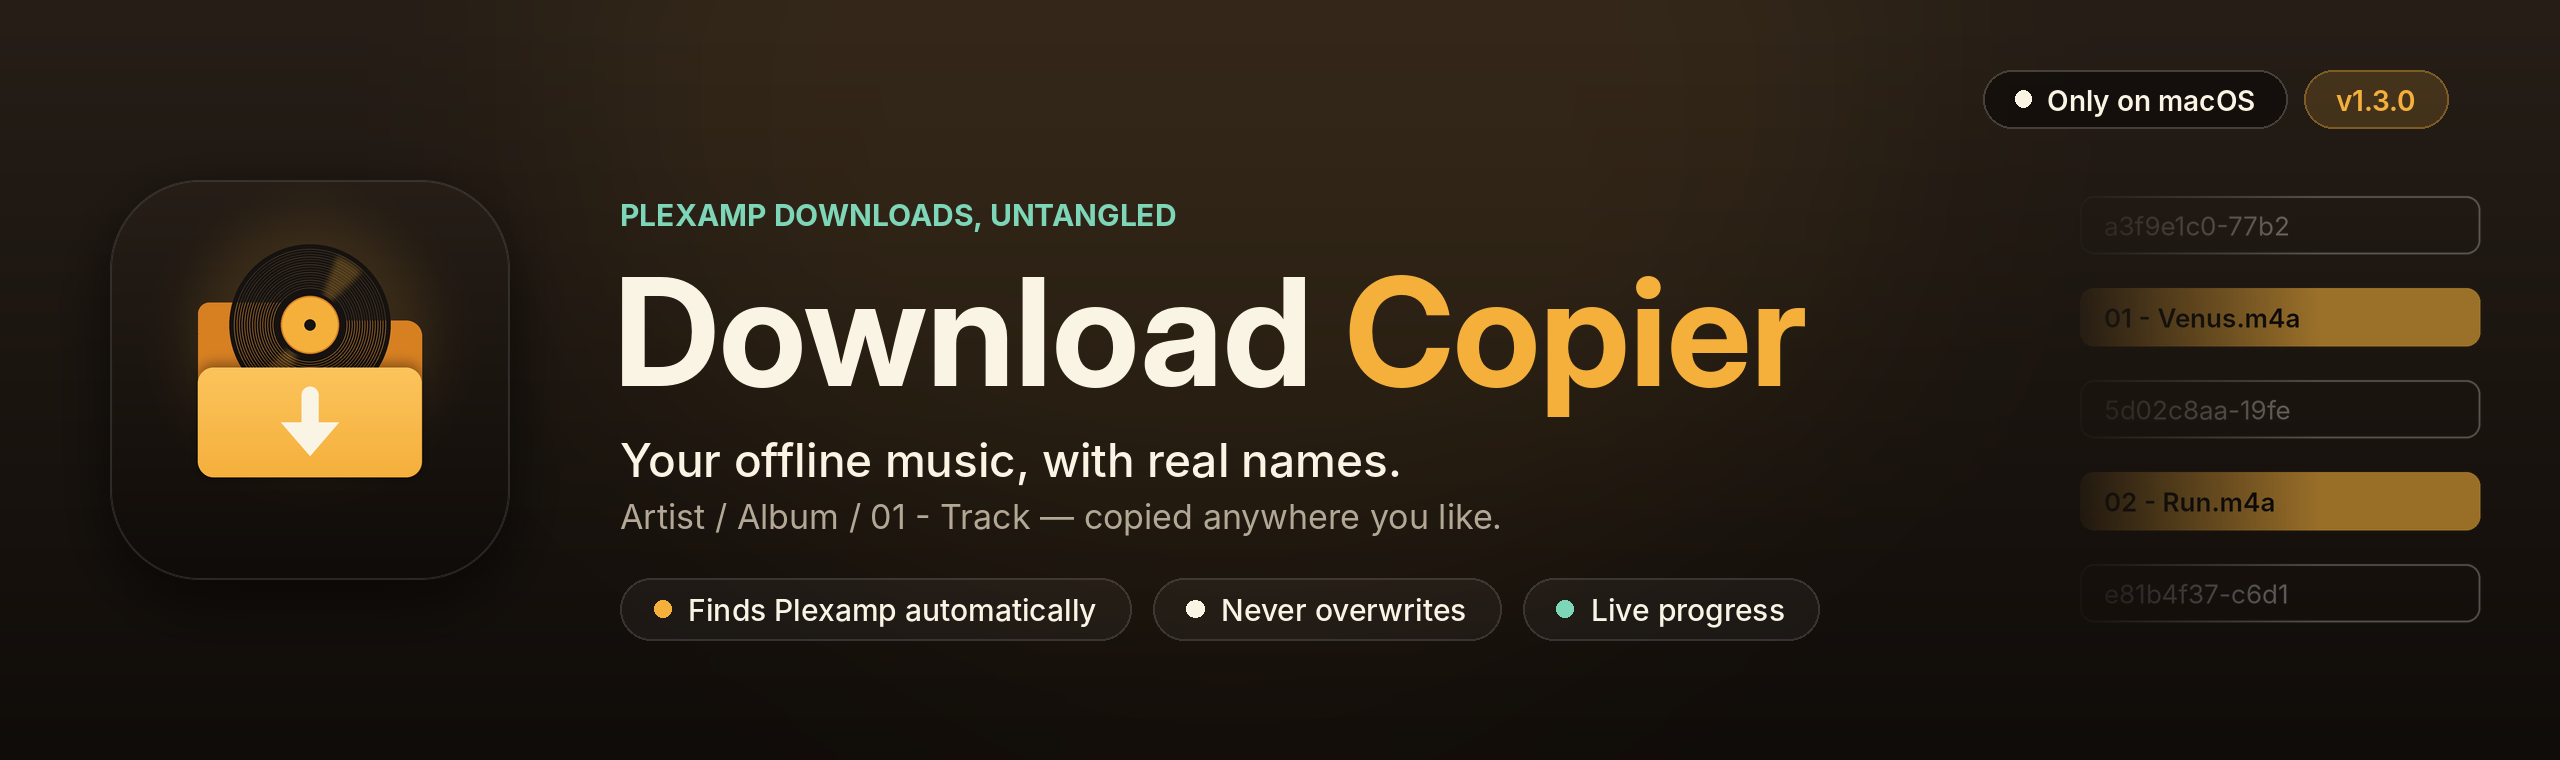
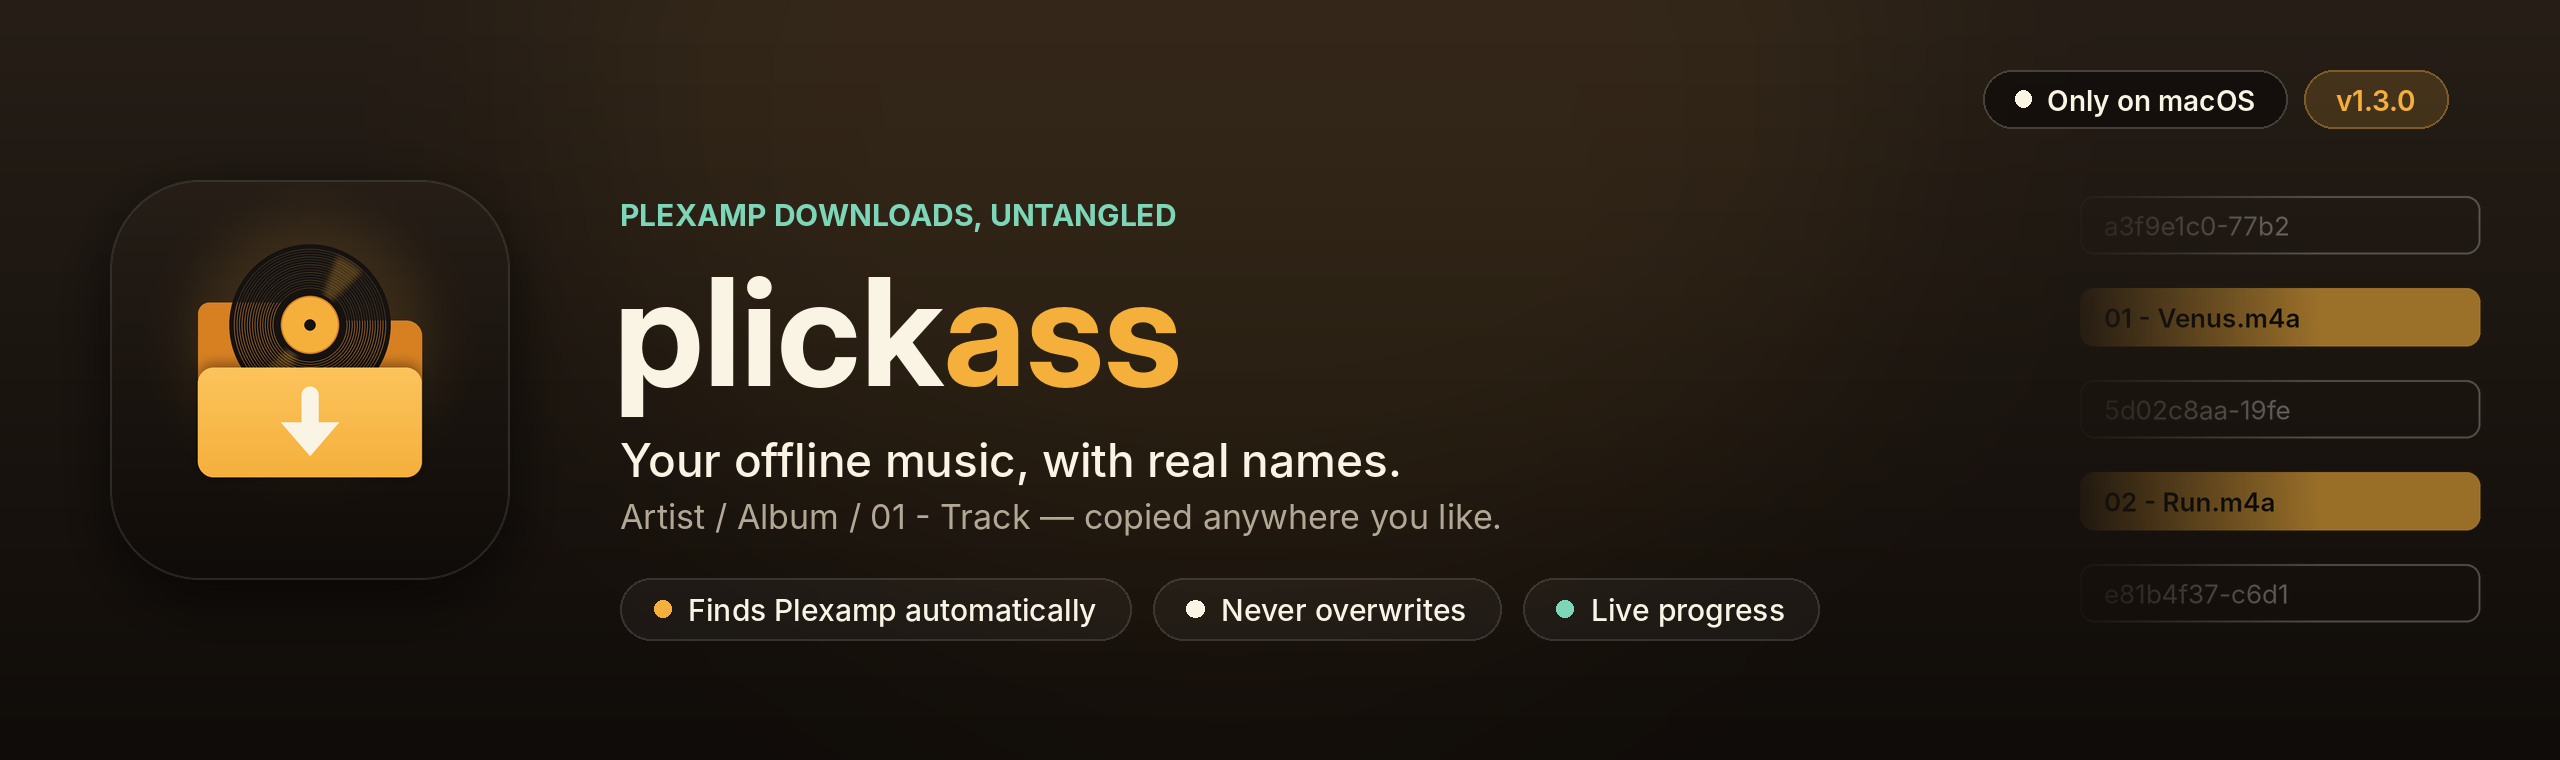
Rename the app to plickass
Plexamp Download Copier's Mac app is now plickass: window, menus,
About, brand bar, app bundle (plickass.app, com.dustalexw.plickass),
log file, README and header. Daniel Rahn's original script keeps its
name and is credited in the README and About window.

Claude-Session: https://claude.ai/code/session_01GjxRronC61BuUcQ3WpvyPP

Changed region(s): [[0.2188, 0.3632, 0.7188, 0.5447], [0.2188, 0.5145, 0.25, 0.5447]]

diff --git a/app.js b/app.js
@@ -1,4 +1,4 @@
-// Plexamp Download Copier — native Cocoa window (JavaScript for Automation).
+// plickass — native Cocoa window (JavaScript for Automation).
 // Run by the app's launcher: osascript -l JavaScript app.js
 // Follows the dustalexw app layout (Banana Split Redux, Data Curator, Cover Flow): an integrated brand bar
 // with an accent rule, uppercase section kickers on rounded cards, one solid accent button, a mint
@@ -11,8 +11,8 @@ function envVar(k) { const v = env.objectForKey(k); return v.isNil() ? '' : v.js
 const RES = envVar('PDC_RES');
 const PY = envVar('PDC_PYTHON') || '/usr/bin/python3';
 const VERSION = envVar('PDC_VERSION') || '1.3.0';
-const NAME = 'Plexamp Download Copier';
-const REPO = 'https://github.com/danrahn/Plexamp-Download-Copier';
+const NAME = 'plickass';
+const REPO = 'https://github.com/dustalexw/plickass';
 const HOME = $.NSHomeDirectory().js;
 const fm = $.NSFileManager.defaultManager;
 try { $.NSProcessInfo.processInfo.processName = NAME; } catch (e) {}
@@ -56,10 +56,10 @@ function centred(m) {
   m.addAttributeValueRange($.NSParagraphStyleAttributeName, p, $.NSMakeRange(0, m.length));
   return m;
 }
-function brandName(size) { // "Plexamp Download" in cream, "Copier" in amber, as in the README header
+function brandName(size) { // "plick" in cream, "ass" in amber, as in the README header
   const f = rounded(size, 0.62);
-  const t = astr('Plexamp Download ', C.cream, f);
-  t.appendAttributedString(astr('Copier', C.amber, f));
+  const t = astr('plick', C.cream, f);
+  t.appendAttributedString(astr('ass', C.amber, f));
   return t;
 }
 
@@ -67,7 +67,7 @@ function brandName(size) { // "Plexamp Download" in cream, "Copier" in amber, as
 function isDir(p) { const d = Ref(); return !!p && fm.fileExistsAtPathIsDirectory(p, d) && d[0]; }
 const DEFAULT_SRC = HOME + '/Library/Application Support/Plexamp/Offline';
 const DEFAULT_DST = HOME + '/Music/Plexamp Copies';
-const LOG = $.NSTemporaryDirectory().js + 'plexamp-copier-' + $.NSProcessInfo.processInfo.processIdentifier + '.log';
+const LOG = $.NSTemporaryDirectory().js + 'plickass-' + $.NSProcessInfo.processInfo.processIdentifier + '.log';
 const icon = $.NSImage.alloc.initWithContentsOfFile(RES + '/AppIcon.icns');
 
 function alert(title, msg, buttons) {
@@ -525,7 +525,7 @@ function about() {
   plate('Source on GitHub', 'openSource:', 28 + LB + 8, LY, LB, 30, 0, 'secondary');
   plate('Report an issue', 'openIssues:', 28 + (LB + 8) * 2, LY, LB, 30, 0, 'secondary');
 
-  wrapped('Original script by Daniel Rahn  ·  Native window by JavaScript for Automation  ·  Copying by Python 3',
+  wrapped('Based on Plexamp Download Copier by Daniel Rahn  ·  Native window by JavaScript for Automation  ·  Copying by Python 3',
           40, LY + 46, AW - 80, 32, 0, C.dim, font(11), true);
   const close = plate('Close', 'closeAbout:', AW - 28 - 84, AH - 28 - 30, 84, 30, 0, 'secondary');
   close.button.keyEquivalent = '\u001b';

diff --git a/scripts/make_brand.py b/scripts/make_brand.py
@@ -1,5 +1,5 @@
 #!/usr/bin/env python3
-"""Generates Plexamp Download Copier's brand assets: the app icon, the README header and the README badges.
+"""Generates plickass's brand assets: the app icon, the README header and the README badges.
 
     python3 scripts/make_brand.py [--version 1.2.0]
 
@@ -188,8 +188,8 @@ def header(path, version, W=2560, H=760):
     x = 620
     d.text((x, 196), "PLEXAMP DOWNLOADS, UNTANGLED", font=font("Inter-Bold.otf", 30), fill=MINT)
     title = font("InterDisplay-Bold.otf", 150)
-    d.text((x - 6, 240), "Download ", font=title, fill=CREAM)
-    d.text((x - 6 + d.textlength("Download ", font=title), 240), "Copier", font=title, fill=AMBER)
+    d.text((x - 6, 240), "plick", font=title, fill=CREAM)
+    d.text((x - 6 + d.textlength("plick", font=title), 240), "ass", font=title, fill=AMBER)
     d.text((x, 432), "Your offline music, with real names.", font=font("Inter-Medium.otf", 46), fill=CREAM)
     d.text((x, 496), "Artist / Album / 01 - Track — copied anywhere you like.", font=font("Inter-Regular.otf", 34), fill=TAUPE)
     layer = Image.new("RGBA", (W, H), (0, 0, 0, 0))

diff --git a/gui.py b/gui.py
@@ -1,4 +1,4 @@
-"""Simple GUI for Plexamp Download Copier. Run: python3 gui.py"""
+"""Simple cross-platform Tk GUI for plickass. Run: python3 gui.py"""
 import os
 import queue
 import sys
@@ -45,7 +45,7 @@ class App:
         self.root = root
         self.q = queue.Queue()
         self.running = False
-        root.title('Plexamp Download Copier')
+        root.title('plickass')
         # Explicit colors: Apple's bundled Tk 8.5 otherwise draws labels/fields invisibly on recent macOS.
         bg, fg, field = '#f4f4f4', '#1d1d1f', '#ffffff'
         root.configure(bg=bg)

diff --git a/README.md b/README.md
@@ -1,4 +1,4 @@
-<p align="center"><img src="docs/readme-header.png" alt="Plexamp Download Copier — Only on macOS; your offline music, with real names" width="100%"></p>
+<p align="center"><img src="docs/readme-header.png" alt="plickass — Only on macOS; your offline music, with real names" width="100%"></p>
 
 <p align="center">
   <a href="#mac-app-gui"><img src="docs/badge-release.svg" alt="Release v1.3.0"></a>
@@ -6,9 +6,9 @@
   <a href="#mac-app-gui"><img src="docs/badge-platform.svg" alt="Platform: macOS 11 or later, Apple silicon and Intel"></a>
 </p>
 
-# Plexamp Download Copier
+# plickass
 
-Plexamp's offline downloads are stored as files named only by random IDs. **Plexamp Download Copier**
+Plexamp's offline downloads are stored as files named only by random IDs. **plickass**
 turns them back into real music files, copied anywhere you like as `Artist / Album / 01 - Track`.
 
 ```
@@ -20,12 +20,12 @@ Find your Plexamp downloads → Choose a destination → Copy → Show in Finder
 * **Read-only on the Plexamp side.** Your downloads are never moved or changed.
 * **Live progress** with every copied track listed as it happens.
 
-Choose **Plexamp Download Copier → About Plexamp Download Copier** for the version, a feature overview
+Choose **plickass → About plickass** for the version, a feature overview
 and links to the source.
 
 ## The script
 
-This script copies downloaded music from Plexamp to a location of your choice.
+plickass is built on [Plexamp Download Copier](https://github.com/danrahn/Plexamp-Download-Copier) by Daniel Rahn, whose command-line script does the copying. The script copies downloaded music from Plexamp to a location of your choice.
 
 When you download music in plexamp, it is given a random guid as a filename with no extension, making it impossible to know at a glance what each file corresponds to. However, each download folder also includes an `index.json` that contains the metadata for all the items, which can be used to correlate the guid to the right track.
 
@@ -61,10 +61,10 @@ This script was tested on Windows and Ubuntu, but should work on other platforms
 
 ## Mac app (GUI)
 
-Double-click **Plexamp Download Copier.app**. It finds your Plexamp downloads folder automatically (or click **Browse…**), lets you pick a destination, and shows progress while it copies. You can drag it into `/Applications`; it carries its own copy of the scripts.
+Double-click **plickass.app**. It finds your Plexamp downloads folder automatically (or click **Browse…**), lets you pick a destination, and shows progress while it copies. You can drag it into `/Applications`; it carries its own copy of the scripts.
 
 - The window is a native macOS window (`app.js`, run by macOS's built-in JavaScript for Automation), so no Tk or extra packages are needed. The copying is done by any Python 3 on your Mac (Homebrew, python.org, or Apple's Command Line Tools).
 - After editing `app.js`, `copy_runner.py`, `correlate.py` or `plexampDownloadCopier.py`, double-click `build.command` (or run `./build.command`) to rebuild and open the app. `VERSION` sets the version number.
-- If something goes wrong, check `~/Library/Logs/PlexampDownloadCopier.log`.
+- If something goes wrong, check `~/Library/Logs/plickass.log`.
 
 `gui.py` is a cross-platform Tk version (`python3 gui.py`). It needs Tk 8.6 or newer: Apple's built-in Python ships Tk 8.5, which draws a blank window on recent macOS.
